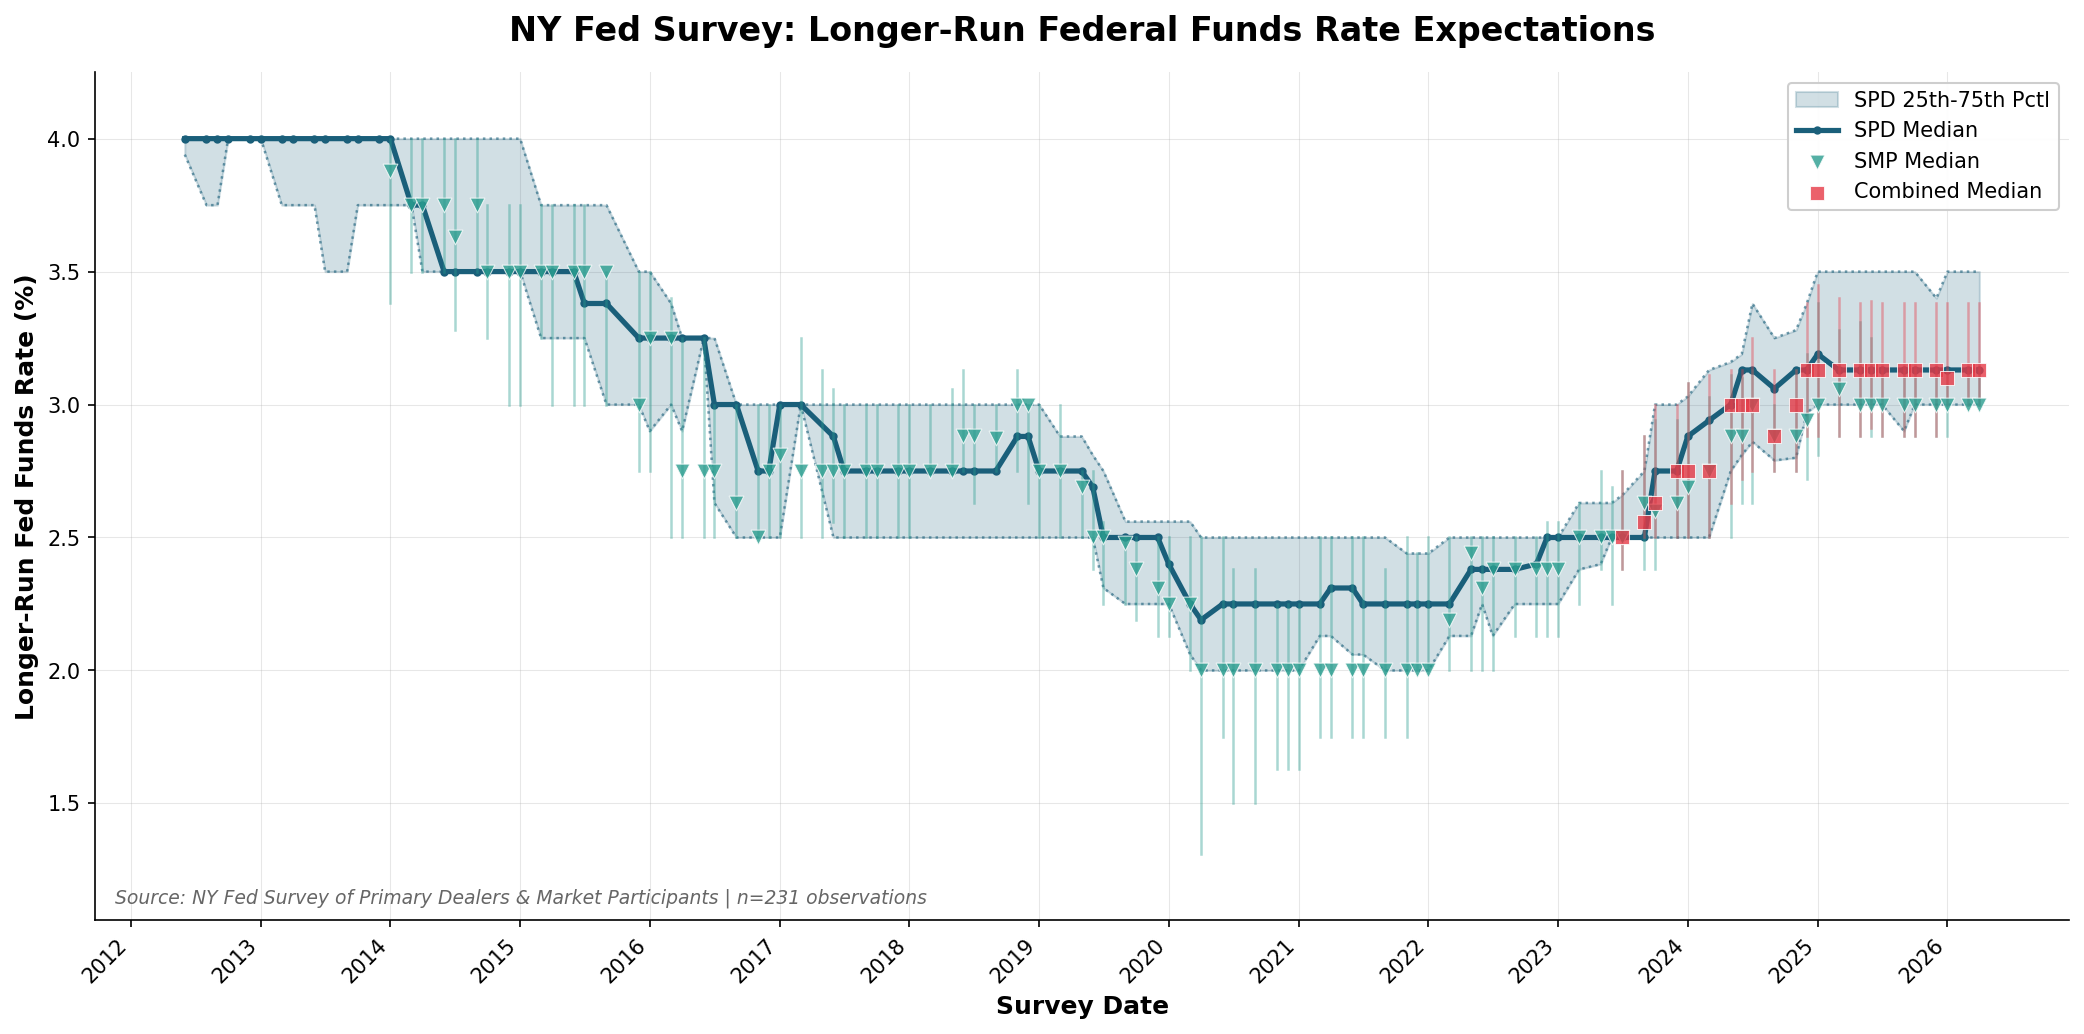
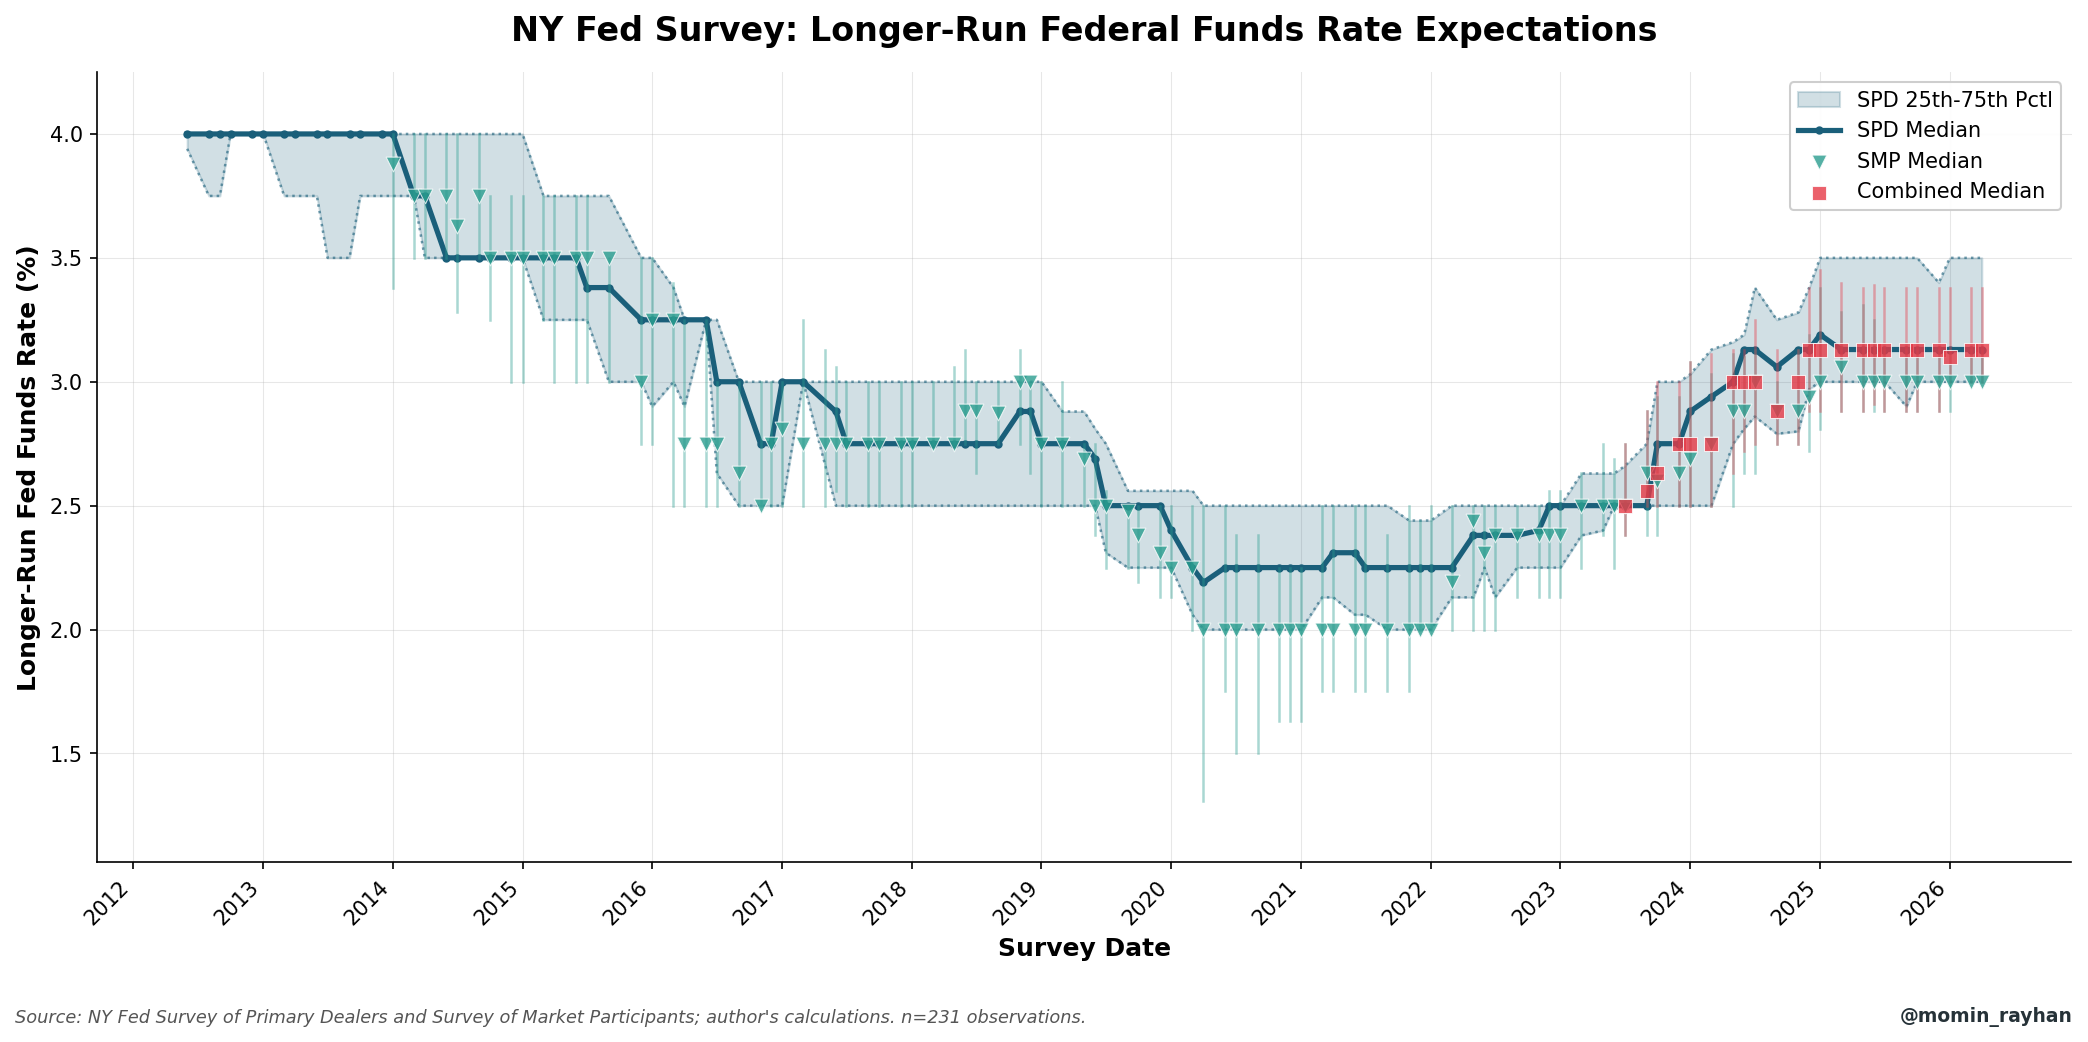
Add chart source footers and branding

diff --git a/scripts/plot_rates.py b/scripts/plot_rates.py
@@ -9,7 +9,12 @@ SMP and Combined shown as markers.
 import pandas as pd
 import matplotlib.pyplot as plt
 import matplotlib.dates as mdates
+import sys
 from pathlib import Path
+
+sys.path.insert(0, str(Path(__file__).parent.parent))
+
+from src.chart_style import add_chart_footer
 
 
 def main():
@@ -163,18 +168,15 @@ def main():
     # Legend
     ax.legend(loc="upper right", framealpha=0.95, fontsize=10)
     
-    # Source note
+    # Source footnote and branding
     total_surveys = len(df_spd) + len(df_smp) + len(df_combined)
-    ax.text(
-        0.01, 0.02,
-        f"Source: NY Fed Survey of Primary Dealers & Market Participants | n={total_surveys} observations",
-        transform=ax.transAxes,
-        fontsize=9,
-        color="#666666",
-        style="italic"
+    add_chart_footer(
+        fig,
+        "Source: NY Fed Survey of Primary Dealers and Survey of Market Participants; "
+        f"author's calculations. n={total_surveys} observations.",
     )
     
-    plt.tight_layout()
+    plt.tight_layout(rect=(0, 0.055, 1, 1))
     
     # Save
     output_path = Path("data_out/longrun_rate_chart.png")

diff --git a/scripts/sep_03_plot_longrun.py b/scripts/sep_03_plot_longrun.py
@@ -11,7 +11,12 @@ Outputs: data_out/sep_longrun_chart.png
 import pandas as pd
 import matplotlib.pyplot as plt
 import matplotlib.dates as mdates
+import sys
 from pathlib import Path
+
+sys.path.insert(0, str(Path(__file__).parent.parent))
+
+from src.chart_style import add_chart_footer
 
 
 def main():
@@ -111,17 +116,14 @@ def main():
     # Legend
     ax.legend(loc="upper right", framealpha=0.95, fontsize=10)
 
-    # Source note
-    ax.text(
-        0.01, 0.02,
-        f"Source: Federal Reserve Summary of Economic Projections | n={len(df)} meetings",
-        transform=ax.transAxes,
-        fontsize=9,
-        color="#666666",
-        style="italic"
+    # Source footnote and branding
+    add_chart_footer(
+        fig,
+        "Source: Federal Reserve Summary of Economic Projections; "
+        f"author's calculations. n={len(df)} meetings.",
     )
 
-    plt.tight_layout()
+    plt.tight_layout(rect=(0, 0.055, 1, 1))
 
     # Save
     output_path = Path("data_out/sep_longrun_chart.png")

diff --git a/scripts/plot_realtime_sep_vs_market.py b/scripts/plot_realtime_sep_vs_market.py
@@ -15,10 +15,15 @@ Outputs:
 """
 
 from pathlib import Path
+import sys
 
 import matplotlib.dates as mdates
 import matplotlib.pyplot as plt
 import pandas as pd
+
+sys.path.insert(0, str(Path(__file__).parent.parent))
+
+from src.chart_style import add_chart_footer
 
 
 PANEL_ORDER = ["SPD", "SMP", "Combined"]
@@ -190,7 +195,13 @@ def plot_realtime_alignment(sep: pd.DataFrame, aligned: pd.DataFrame, output_pat
     ax_top.legend(loc="upper left", framealpha=0.95, fontsize=9, ncol=2)
     ax_gap.legend(loc="upper left", framealpha=0.95, fontsize=9, ncol=4)
 
-    plt.tight_layout()
+    add_chart_footer(
+        fig,
+        "Sources: Federal Reserve Summary of Economic Projections; NY Fed Survey of "
+        "Primary Dealers and Survey of Market Participants; author's calculations.",
+    )
+
+    plt.tight_layout(rect=(0, 0.055, 1, 1))
     plt.savefig(output_path, dpi=150, facecolor="white", bbox_inches="tight")
     plt.close()
 

diff --git a/src/chart_style.py b/src/chart_style.py
@@ -1,0 +1,30 @@
+"""Shared chart styling helpers."""
+
+
+BRAND_TEXT = "@momin_rayhan"
+FOOTER_COLOR = "#555555"
+BRAND_COLOR = "#263238"
+
+
+def add_chart_footer(fig, source_text: str, brand_text: str = BRAND_TEXT) -> None:
+    """Add a source footnote and right-aligned personal branding to a figure."""
+    fig.text(
+        0.01,
+        0.015,
+        source_text,
+        ha="left",
+        va="bottom",
+        fontsize=8.5,
+        color=FOOTER_COLOR,
+        style="italic",
+    )
+    fig.text(
+        0.99,
+        0.015,
+        brand_text,
+        ha="right",
+        va="bottom",
+        fontsize=9,
+        color=BRAND_COLOR,
+        fontweight="bold",
+    )
